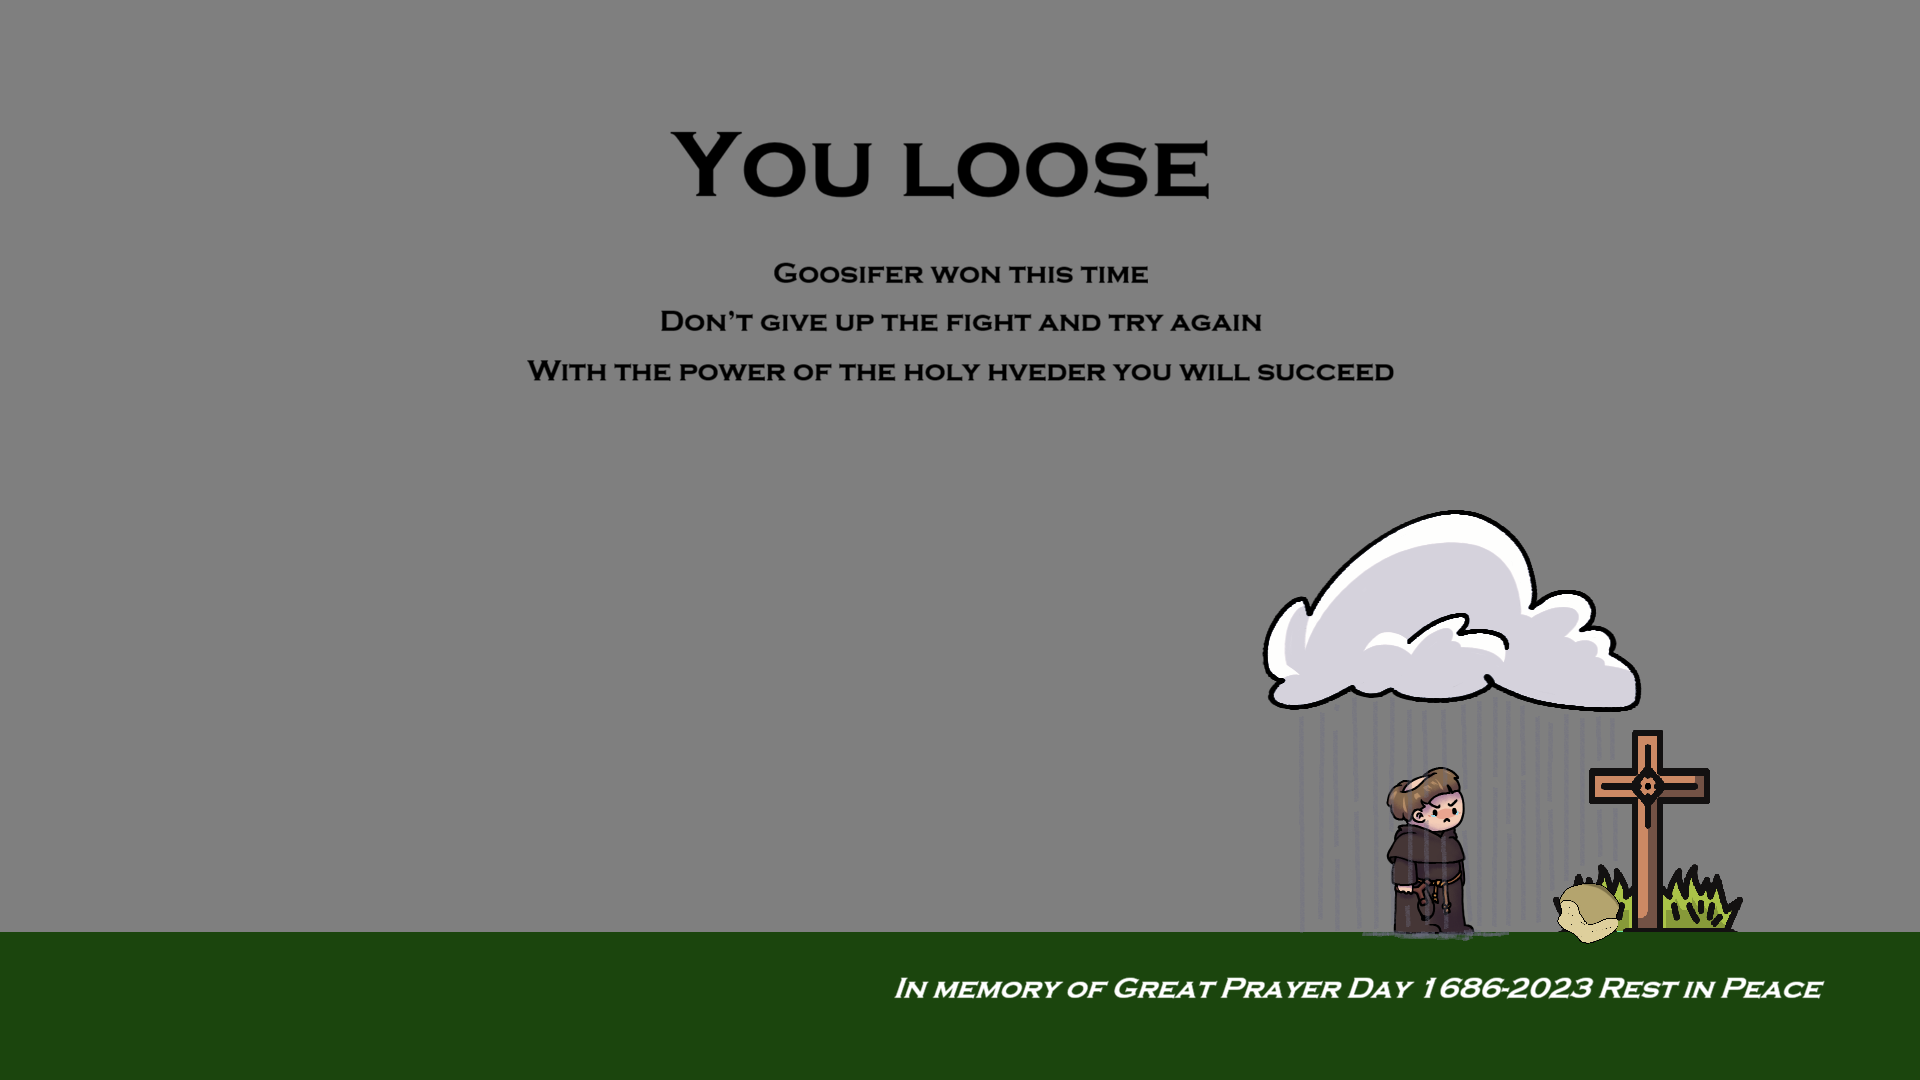
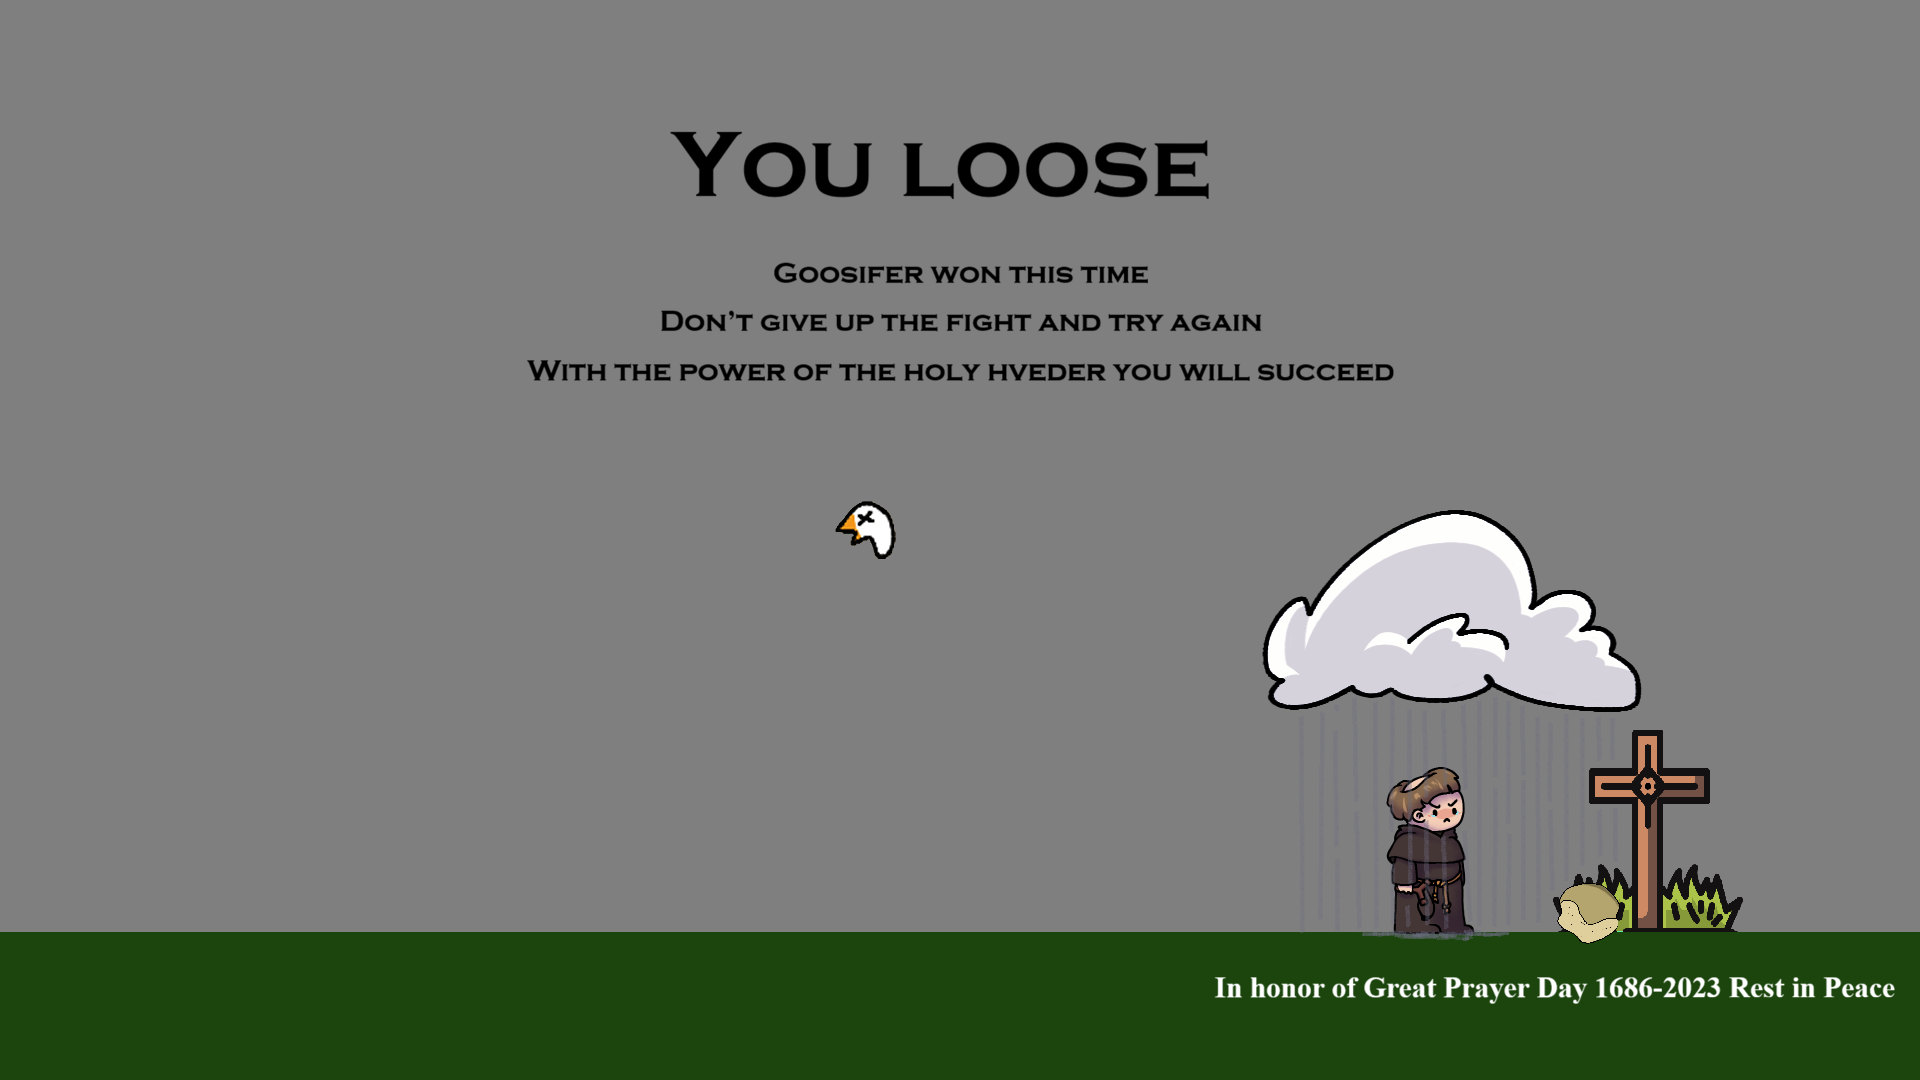
New win and loose screen Small change to Button

Changed region(s): [[0.4688, 0.8861, 0.9688, 0.9472], [0.4375, 0.4583, 0.4688, 0.5194]]

diff --git a/Menu.py b/Menu.py
@@ -38,6 +38,8 @@ class Menu():
                     self._gameWorld.instantiate(self._exit_button.get_button())
                     self._main_button = Button(self._gameWorld, self, Button_Types.MAIN)
                     self._gameWorld.instantiate(self._main_button.get_button())
+                    self._killed_button = Button(self._gameWorld, self, Button_Types.KILLED)
+                    self._gameWorld.instantiate(self._killed_button.get_button())
                 case Assets.LOOSE_SCREEN:
                     self._restart_button = Button(self._gameWorld, self, Button_Types.RESTART)
                     self._gameWorld.instantiate(self._restart_button.get_button())
@@ -45,6 +47,8 @@ class Menu():
                     self._gameWorld.instantiate(self._exit_button.get_button())
                     self._main_button = Button(self._gameWorld, self, Button_Types.MAIN)
                     self._gameWorld.instantiate(self._main_button.get_button())
+                    self._killed_button = Button(self._gameWorld, self, Button_Types.KILLED)
+                    self._gameWorld.instantiate(self._killed_button.get_button())
 
 
     @property
@@ -75,6 +79,7 @@ class Button():
         self._button_type = button_type
         self._texts: List[Button] = self._gameWorld.texts        
         self._main_menu_bool = False
+
         
 
         #Position of the button
@@ -89,6 +94,9 @@ class Button():
                 self._pos = pygame.math.Vector2(800, 600)
             case Button_Types.MAIN:
                 self._pos = pygame.math.Vector2(900, 700)
+            case Button_Types.KILLED:
+                # self._pos = pygame.math.Vector2(self._screen.get_width()/2, 400)
+                self._pos = pygame.math.Vector2(1000,500)
             case _:
                 print(f"No match case for {button_type} in Button.__init__")
                 self._pos = pygame.math.Vector2(self._screen.get_width() / 2, self._screen.get_height() / 2)
@@ -103,8 +111,17 @@ class Button():
         self._show_text =True
 
         #Text on the button
-        self._text = button_type.name
+        if(self._button_type == Button_Types.KILLED):
+            self._text = str(self._gameWorld.killed_enemies)
+        else:
+            self._text = button_type.name
         self._gameWorld.add_to_text_button(self)
+
+
+        #Text
+        self._font = pygame.font.SysFont("CopperplateGothicBold", 30)
+        self._text_surface = self._font.render(self._text, True, (0, 0, 0))
+        self._text_rect = self._text_surface.get_rect(center=self.rect.center)
 
         self._main_amount = 0
                 
@@ -113,10 +130,10 @@ class Button():
     def get_button(self):
         return self._gameObject
     
-    def draw_text(self, text):
-        self._font = pygame.font.SysFont("CopperplateGothicBold", 30)
-        self._text_surface = self._font.render(text, True, (0, 0, 0))
-        self._text_rect = self._text_surface.get_rect()
+    # def draw_text(self, text):
+    #     self._font = pygame.font.SysFont("CopperplateGothicBold", 30)
+    #     self._text_surface = self._font.render(text, True, (0, 0, 0))
+    #     self._text_rect = self._text_surface.get_rect()
         
 
     def click_on_button(self):
@@ -140,11 +157,15 @@ class Button():
             for text_and_button in self._texts:
                 text_and_button._show_text = False
                 text_and_button.get_button().destroy()
+
+            self._texts.clear()
+
+            
     
     
     def update(self,delta_time):
         if (self._show_text == True):
-            self.draw_text(self._text)
+            # self.draw_text(self._text)
             self._text_rect.center = self.rect.center
             self._screen.blit(self._text_surface, self._text_rect)
         if self._main_menu_bool == True and self._main_amount == 1:

diff --git a/GameWorld.py b/GameWorld.py
@@ -39,6 +39,7 @@ class GameWorld:
         
         self._start_manu = Menu(self, Assets.START_MENU)
         self._menu_bool = True
+        self._pause_bool = False
 
     @property
     def screen(self):
@@ -51,6 +52,10 @@ class GameWorld:
     @property
     def texts(self):
         return self._text_button
+    
+    @texts.setter
+    def texts(self, value):
+        self._text_button = value
     
     @property
     def player_alive(self):
@@ -72,6 +77,10 @@ class GameWorld:
     def pause_bool(self, value):
         self._pause_bool = value
 
+    @property
+    def killed_enemies(self):
+        return self._enemies_killed
+
 
     # def spawn_main_menu(self):
     #     Menu(self, Assets.START_MENU)
@@ -88,17 +97,17 @@ class GameWorld:
         self._enemy_pool = EnemyPool(self)
         self._projectile_pool = ProjectilePool(self)
     
-    def reset_game(self):
-        self._gameObjects = []
-        self._colliders = []
-        self._events = {}
-        self._player_score = 0
-        self._enemies_killed = 0
-        builder = PlayerBuilder()
-        builder.build()
-        self._gameObjects.append(builder.get_gameObject())
-        self._enemy_pool = EnemyPool(self)
-        self._projectile_pool = ProjectilePool(self)
+    # def reset_game(self):
+    #     self._gameObjects = []
+    #     self._colliders = []
+    #     self._events = {}
+    #     self._player_score = 0
+    #     self._enemies_killed = 0
+    #     builder = PlayerBuilder()
+    #     builder.build()
+    #     self._gameObjects.append(builder.get_gameObject())
+    #     self._enemy_pool = EnemyPool(self)
+    #     self._projectile_pool = ProjectilePool(self)
     
     def instantiate(self, gameObject):
         gameObject.awake(self) 

diff --git a/Enums.py b/Enums.py
@@ -37,6 +37,7 @@ class Button_Types(Enum):
     RESTART = "Restart"
     RESUME = "Resume"
     MAIN = "Main menu"
+    KILLED = "Killed enemies"
     # EXIT_PAUSE = "Exit pause"
 
 class GameEvents(Enum):
